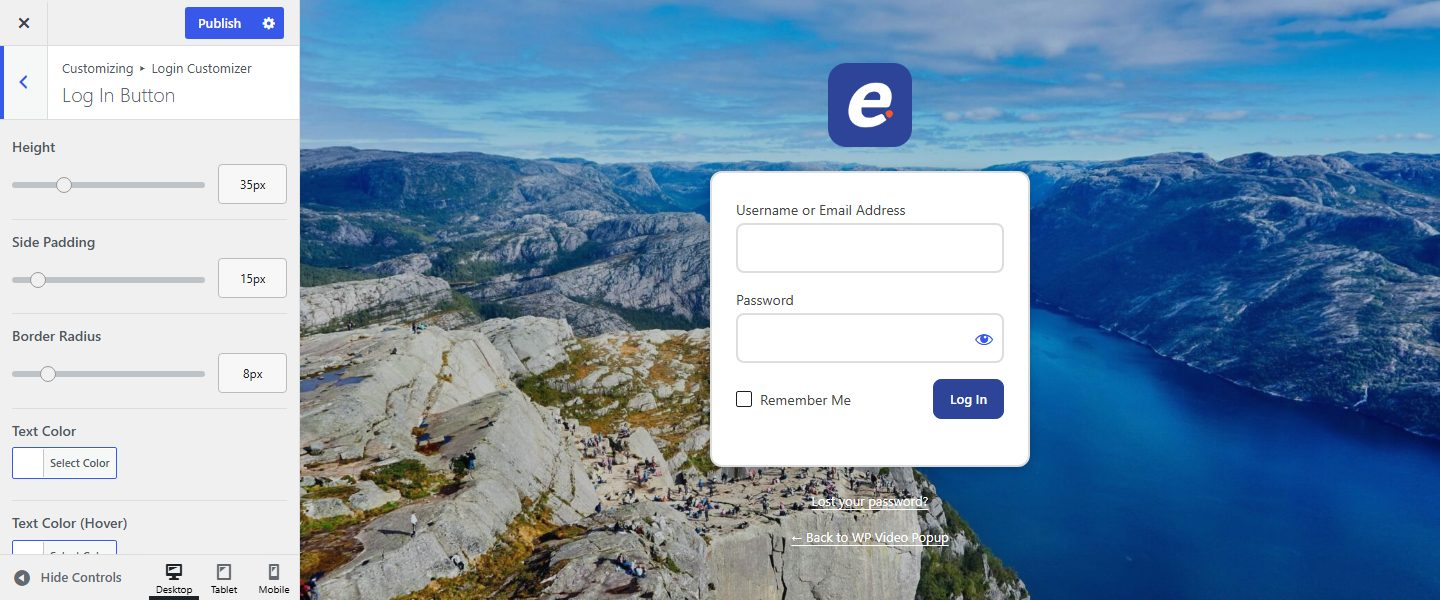
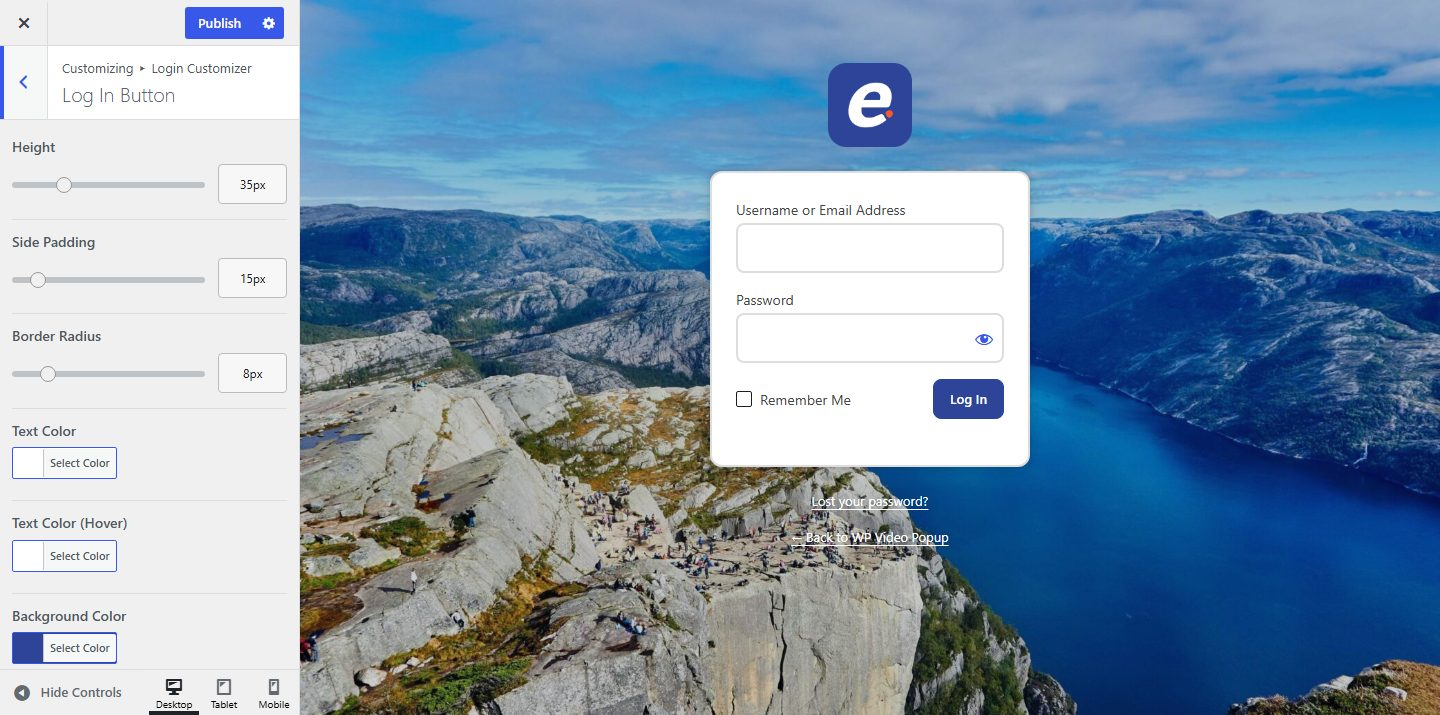
Color field matches the inputs, taller screenshot, preview filter
- Color field: grey border like the inputs, white label, swatch clipped to the rounded corners
- Migration box screenshot shows the full color controls
- cldashboard_is_udb_installed filter (e.g. to preview the migration prompts)

diff --git a/assets/css/admin.css b/assets/css/admin.css
@@ -58,21 +58,37 @@
 	min-height: var(--heatbox-control-height);
 	margin: 0;
 	padding: 0 0 0 40px;
+	border-color: var(--heatbox-border);
 	border-radius: var(--heatbox-radius-control);
+	color: var(--heatbox-text);
+}
+
+/* Bordered like the inputs, not like a blue button */
+.cldashboard-settings-page .wp-picker-container .button.wp-color-result:hover,
+.cldashboard-settings-page .wp-picker-container .button.wp-color-result:focus,
+.cldashboard-settings-page .wp-picker-container.wp-picker-active .button.wp-color-result {
+	border-color: var(--heatbox-control-border);
+	color: var(--heatbox-text);
 }
 
 .cldashboard-settings-page .wp-color-result .wp-color-result-text {
 	height: 100%;
 	padding: 0 12px;
 	line-height: calc(var(--heatbox-control-height) - 2px);
-	border-radius: 0 calc(var(--heatbox-radius-control) - 1px) calc(var(--heatbox-radius-control) - 1px) 0;
+	background: #fff;
+	border-left-color: var(--heatbox-border);
+	border-radius: 0;
 }
 
-/* The color swatch (from the alpha script) fills the whole swatch area */
+/* The color swatch (from the alpha script) fills the swatch area; the button's rounded corners clip it */
+.cldashboard-settings-page .wp-picker-container .button.wp-color-result {
+	overflow: hidden;
+}
+
 .cldashboard-settings-page .wp-color-result .color-alpha {
 	width: 40px !important;
 	height: 100% !important;
-	border-radius: calc(var(--heatbox-radius-control) - 1px) 0 0 calc(var(--heatbox-radius-control) - 1px);
+	border-radius: 0 !important;
 }
 
 .cldashboard-settings-page .wp-picker-input-wrap .button {

diff --git a/templates/migration.php b/templates/migration.php
@@ -24,7 +24,7 @@ $cldashboard_learn_more_url = 'https://ultimatedashboard.io/blog/erident-custom-
 		<h2><?php esc_html_e( 'Erident is now Ultimate Dashboard', 'erident-custom-login-and-dashboard' ); ?></h2>
 		<div class="heatbox-content cldashboard-migration-content">
 			<p><?php esc_html_e( 'Erident Custom Login & Dashboard is in maintenance mode: it gets security & compatibility fixes, but no new features. New login features go into Ultimate Dashboard, which is free too.', 'erident-custom-login-and-dashboard' ); ?></p>
-			<img class="cldashboard-migration-image" src="<?php echo esc_url( CUSTOM_LOGIN_DASHBOARD_PLUGIN_URL ); ?>/assets/images/login-customizer.jpg" width="1440" height="600" alt="<?php esc_attr_e( 'The Ultimate Dashboard login customizer: settings on the left, a live preview of the login screen on the right.', 'erident-custom-login-and-dashboard' ); ?>">
+			<img class="cldashboard-migration-image" src="<?php echo esc_url( CUSTOM_LOGIN_DASHBOARD_PLUGIN_URL ); ?>/assets/images/login-customizer.jpg" width="1440" height="715" alt="<?php esc_attr_e( 'The Ultimate Dashboard login customizer: settings on the left, a live preview of the login screen on the right.', 'erident-custom-login-and-dashboard' ); ?>">
 			<ul class="cldashboard-migration-benefits">
 				<li><?php esc_html_e( 'Customize your login screen live in the WordPress Customizer, with more options.', 'erident-custom-login-and-dashboard' ); ?></li>
 				<li><?php esc_html_e( 'Your Erident settings move over automatically.', 'erident-custom-login-and-dashboard' ); ?></li>

diff --git a/helpers/helpers.php b/helpers/helpers.php
@@ -209,7 +209,14 @@ function cldashboard_color_with_alpha( $color, $alpha ) {
  */
 function cldashboard_is_udb_installed() {
 
-	return defined( 'ULTIMATE_DASHBOARD_PLUGIN_VERSION' ) || file_exists( WP_PLUGIN_DIR . '/ultimate-dashboard/ultimate-dashboard.php' );
+	$installed = defined( 'ULTIMATE_DASHBOARD_PLUGIN_VERSION' ) || file_exists( WP_PLUGIN_DIR . '/ultimate-dashboard/ultimate-dashboard.php' );
+
+	/**
+	 * Filters whether Ultimate Dashboard counts as installed (e.g. to preview the migration prompts).
+	 *
+	 * @param bool $installed Whether Ultimate Dashboard is installed.
+	 */
+	return (bool) apply_filters( 'cldashboard_is_udb_installed', $installed );
 
 }
 
